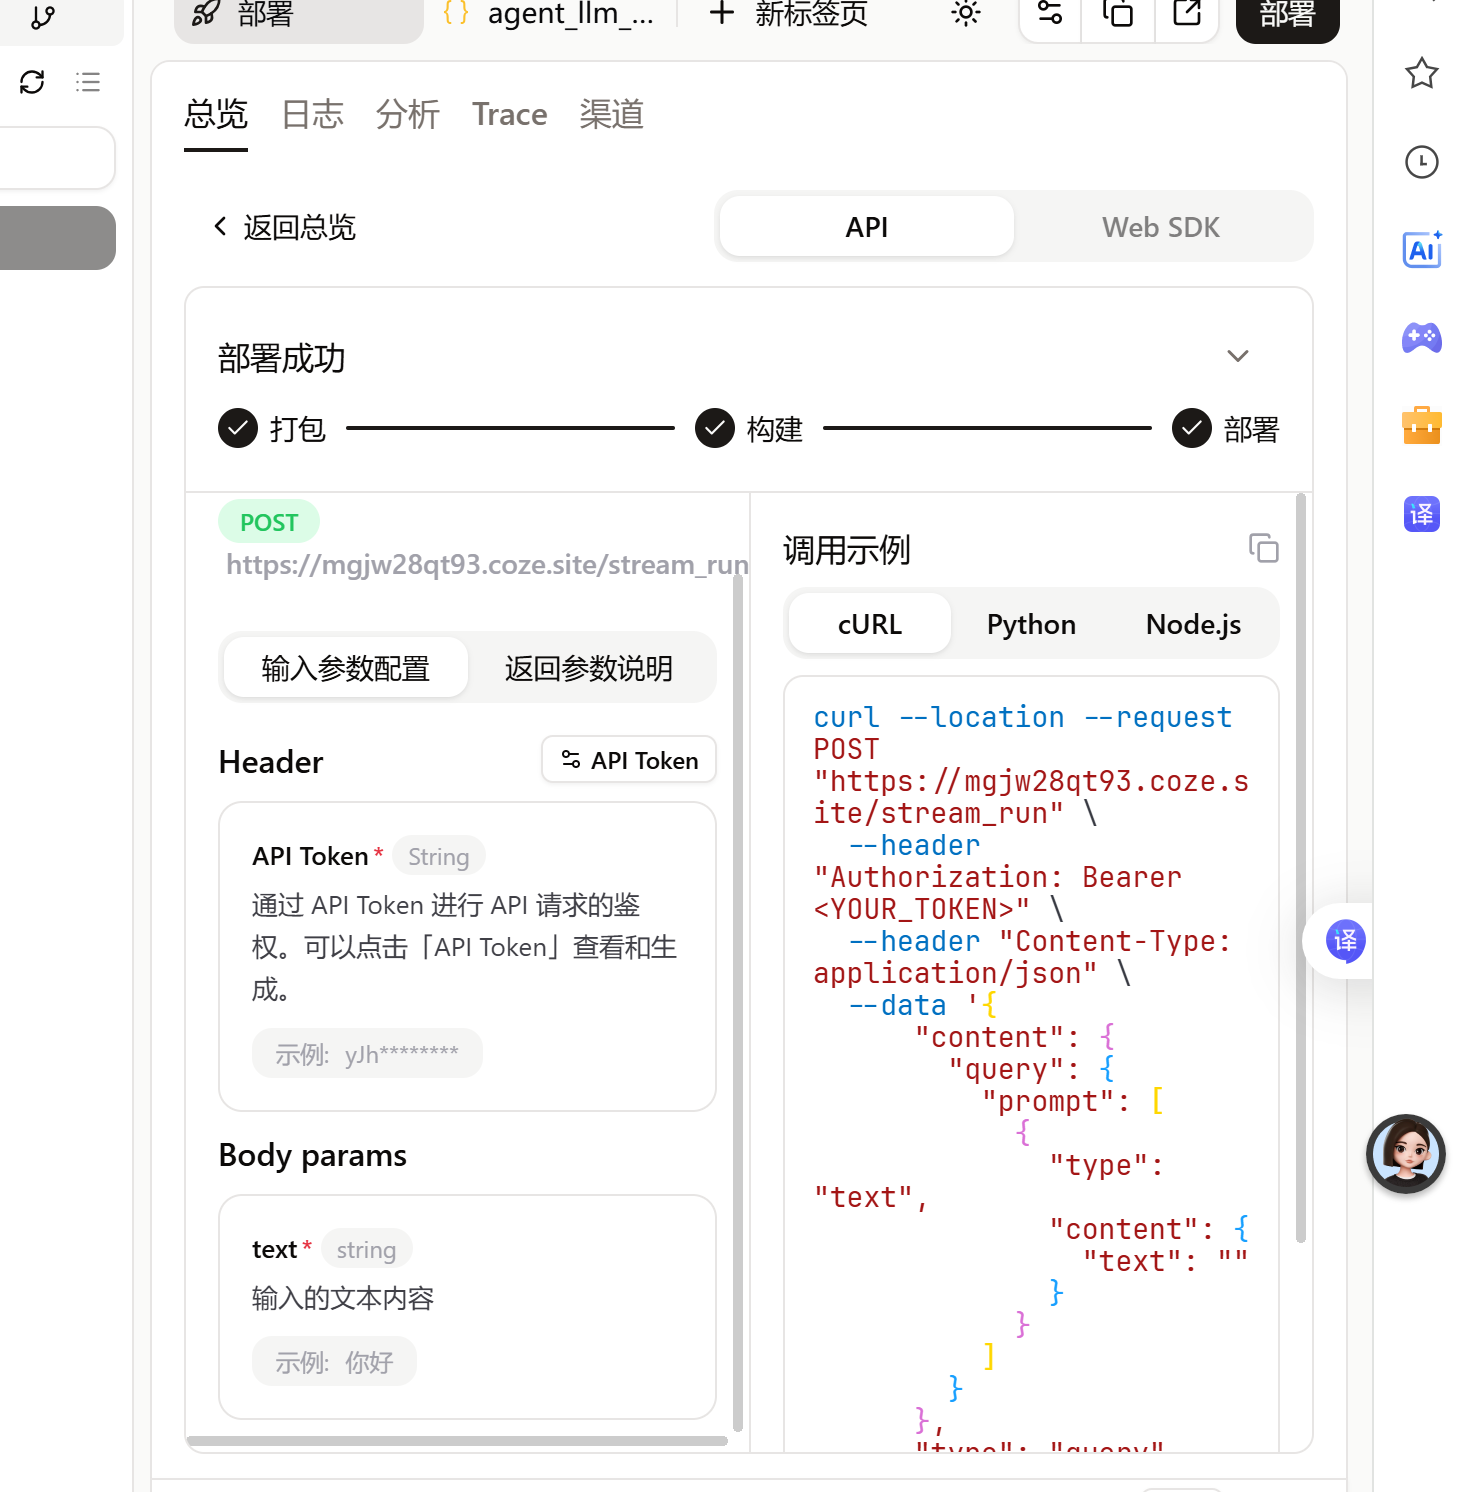
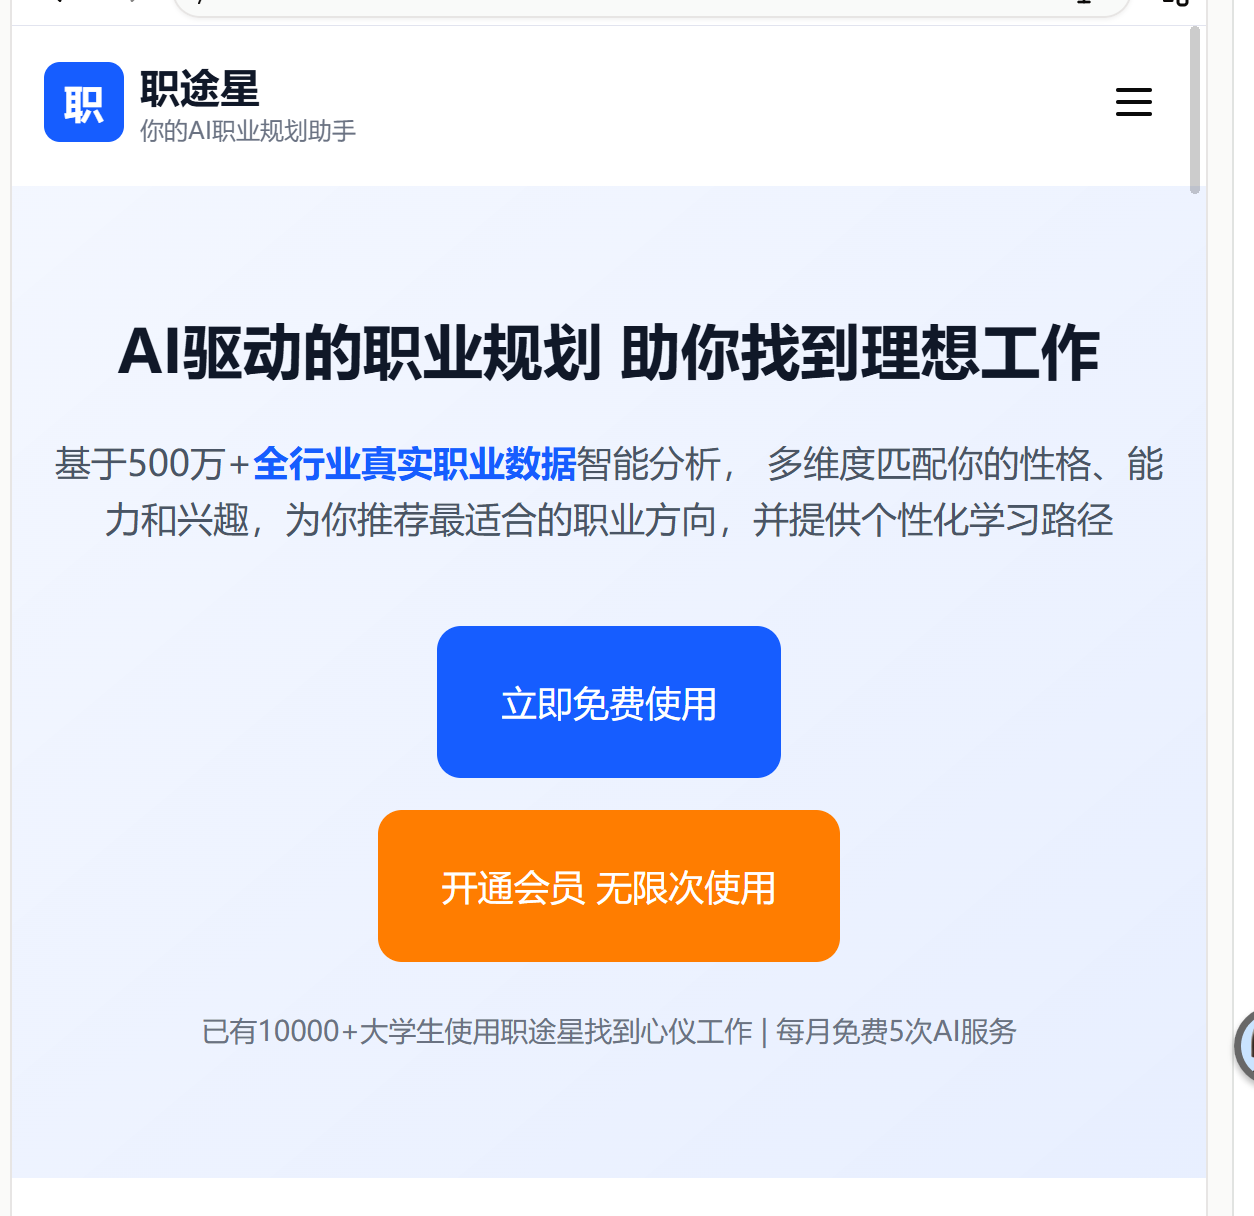
fix: 隐藏首页付费推广内容
- 首页Banner移除"开通会员 无限次使用"按钮
- 首页AI体验区移除会员推广提示
- FreeQuotaBadge只在/assistant页面显示

diff --git a/src/app/page.tsx b/src/app/page.tsx
@@ -103,11 +103,6 @@ export default function HomePage() {
                 立即免费使用
               </Button>
             </Link>
-            <Link href="/membership">
-              <Button className="bg-[#FF7D00] hover:bg-[#e67000] text-white text-lg px-8 py-6 h-auto rounded-xl transition-all duration-300 hover:shadow-lg hover:-translate-y-1">
-                开通会员 无限次使用
-              </Button>
-            </Link>
           </div>
           <p className="text-sm text-gray-500">
             已有10000+大学生使用职途星找到心仪工作 | 每月免费5次AI服务
@@ -188,9 +183,6 @@ export default function HomePage() {
               </div>
             </div>
           </div>
-          <p className="text-center text-sm text-gray-500 mt-4">
-            每月免费5次AI服务，开通会员享无限次使用+专属特权
-          </p>
         </div>
       </section>
 

diff --git a/src/components/FreeQuotaBadge.tsx b/src/components/FreeQuotaBadge.tsx
@@ -2,10 +2,12 @@
 
 import Link from 'next/link';
 import { useState, useEffect } from 'react';
+import { usePathname } from 'next/navigation';
 
 export default function FreeQuotaBadge() {
   const [freeQuota] = useState(5);
   const [isVisible, setIsVisible] = useState(true);
+  const pathname = usePathname();
 
   useEffect(() => {
     const handleScroll = () => {
@@ -14,6 +16,11 @@ export default function FreeQuotaBadge() {
     window.addEventListener('scroll', handleScroll);
     return () => window.removeEventListener('scroll', handleScroll);
   }, []);
+
+  // 只在AI助手页面显示
+  if (!pathname.startsWith('/assistant')) {
+    return null;
+  }
 
   return (
     <Link